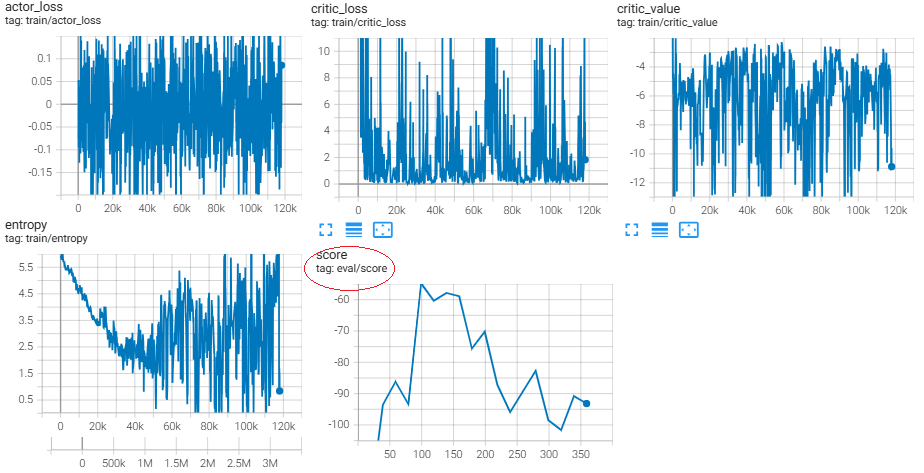
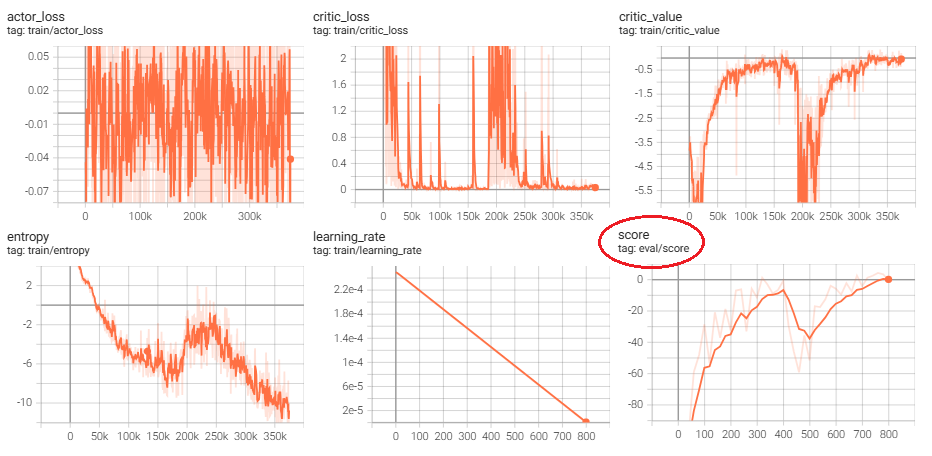
x

diff --git a/Demonstration Learning的综述.md b/Demonstration Learning的综述.md
@@ -1,0 +1,106 @@
+
+
+**A SURVEY OF DEMONSTRATION LEARNING**
+
+### 1、Introduction
+
+ 随着 AI 尤其是强化学习（RL）的发展，人们希望通过模仿人类行为训练智能系统。传统 RL 在现实中面临成本高、安全性差、需要大量交互的问题，这让从演示中学习（Demonstration Learning）成为一种更安全高效的替代方案。
+
+传统编程方式无法适应高维或连续动作空间。而通过示范学习，智能体可以自动学习状态-动作的映射（policy），从而规避了人工指定每种情况的繁琐过程。
+
+利用示范学习得到的动态模型（dynamics model）来“模拟”环境，从而生成新的状态转移序列（transitions），而不是真实地与环境交互。如果我们通过专家演示数据学到一个近似准确的环境模型，我们就可以在这个“模拟环境”中运行当前策略进行 rollout（策略执行），得到新的 transition 序列
+
+RL 虽然能达到超人水平，但需要大量与环境交互，安全性差、样本效率低，因此不适合现实世界中如机器人和医疗的任务。
+
+示范学习可利用专家数据跳过试错过程，安全高效地学习策略，并可结合其他方法进一步优化（如 RL、建模或 IRL），成为现实场景的可行方案。
+
+示范学习依赖于专家数据的覆盖度，不足的多样性会导致泛化困难，遇到分布外状态时性能急剧下降，因此如何处理分布偏移是关键难题。
+
+ 示范数据的收集也不易，可能存在噪声、不一致或设备误差，因此学习方法需具有一定泛化能力，而非“死记硬背”。
+
+ 这一领域自上世纪八十年代起就被视为机器人学习的重要方向，并已广泛应用于各种机器人任务中，研究热度因深度学习而持续上升。
+
+ 已有多个综述试图统一该领域的术语与分类方法，但术语仍较混乱，因此本综述统一采用“demonstration learning”这个术语。
+
+本文旨在从数据采集、学习方法、优化流程到评估基准全面综述该领域，并指出目前的挑战与未来研究方向。
+
+
+
+![image-20250628125818359](img\image-20250628125818359.png)
+
+### 2、Problem Definition
+
+讲了RL和MDP，这部分已经比较熟悉，不再赘述
+
+1. 行为克隆（Behavior Cloning）：将策略学习建模为监督学习问题，直接拟合专家在每个状态下的动作，适用于离散动作空间（分类）或连续动作空间（回归），但容易因分布外状态导致错误。
+2. 逆向强化学习（Inverse Reinforcement Learning, IRL）：从演示中推断奖励函数，使智能体在训练中朝着“专家行为”的方向学习，而无需手动设计复杂的奖励函数。
+3. 离线强化学习（Offline RL）：若演示中包含环境奖励，可以将其视作经验数据集，在不与环境交互的前提下，用 RL 方法训练出最大化累计奖励的策略，进而实现对演示策略的改进或泛化。
+4. 即使演示中包含次优行为，Offline RL 也能通过估计价值函数选择高质量部分，从而可能超越原始演示策略，但这要求能正确区分好坏行为，是个挑战。
+5. Offline RL 的目标是利用演示数据学习价值函数（state-value 或 action-value），再据此优化策略以最大化长期回报。
+6. 值函数估计可以支持策略学习时更好地权衡长期收益，比行为克隆能更好应对次优演示和泛化问题。
+7. 与监督学习不同，演示数据是时间序列并非独立同分布（non-i.i.d.），这加剧了“分布偏移”问题：策略一旦偏离演示分布，预测误差可能持续累积并放大。Offline RL 方法通常需通过不同机制约束策略偏离，降低泛化风险。
+
+| 方法                         | 主要目标                                       | 数据需求                      | 是否需要奖励信息 | 优势                                             | 劣势                                                         |
+| ---------------------------- | ---------------------------------------------- | ----------------------------- | ---------------- | ------------------------------------------------ | ------------------------------------------------------------ |
+| 行为克隆（Behavior Cloning） | 模仿专家动作，学习状态到动作的映射关系         | 状态-动作对（不一定覆盖全面） | 否               | 简单高效，易于实现；训练过程快                   | 容易受分布外状态影响，泛化能力弱；无法识别和避免差的演示行为 |
+| 逆向强化学习（IRL）          | 从专家行为推断奖励函数，再用 RL 优化策略       | 状态-动作序列                 | 否               | 可自动构建奖励函数，适用于无法手动设计奖励的任务 | 套路较复杂；可能产生多个解释（奖励不唯一）；效率不高         |
+| 离线强化学习（Offline RL）   | 直接在静态数据集上进行策略优化以最大化奖励期望 | 状态-动作-奖励-下一状态四元组 | 是               | 可超越专家；能识别次优示范并改进；处理长期回报   | 分布外泛化风险大；学习稳定性依赖策略约束与价值函数估计方法   |
+
+### 3、Demonstration Data Set
+
+#### 3.4 Direct Demonstration（直接示范）
+描述：示范由学习代理自身完成，不需要对状态或动作进行映射。
+
+- 3.4.1 Teleoperation（远程操控）  
+  人类通过控制器操纵学习代理完成任务，数据由代理内部传感器记录，直接可用。
+
+- 3.4.2 Kinesthetic Teaching（动作示教）  
+  教师通过身体接触引导机器人运动（如拉动机械臂关节），机器人用自身传感器记录演示。
+
+  想象一个人亲手“抓住”机器人的手臂，把它移动到正确的位置完成一个任务。这个过程中机器人自身的传感器记录了关节角度、运动轨迹等信息——这些就构成了演示数据。也可以通过语音告诉机器人“现在抬起右臂30度”来进行类似示教。
+
+- 3.4.3 Shadowing（影子模仿）  
+  代理通过视觉或追踪传感器实时模仿教师动作，动作由代理执行但需要将教师行为映射为自身控制指令。
+
+  这类似于“跟读”或者镜像模仿。比如一个机器人实时识别人类手势或步态，并让自己的身体同步模仿。这通常用于具有人形结构的机器人，例如双足行走或手臂动作训练。
+
+---
+
+#### 3.5 Indirect Demonstration（间接示范）
+描述：示范由外部实体完成，通常需要将示范结果映射到学习代理能理解的状态和动作空间。
+
+- 3.5.1 Observation（观察）  
+  代理通过摄像头等外部传感器观看人类执行任务，仅获得视觉信息，需进一步推理动作。
+
+- 3.5.2 Sensors on Teacher（教师佩戴传感器）  
+  在教师身上安装传感器收集精确的动作数据，但仍需将这些数据适配到机器人的执行格式。
+
+---
+
+#### 3.6 Data Representation（数据表示方式）
+描述：示范数据可以以不同形式进行存储和使用，影响后续学习质量。
+
+- 3.6.1 Raw Features（原始特征）  
+  直接使用传感器采集的数据，例如图像、位置信息、速度等，未经加工。
+
+- 3.6.2 Manually Designed Features（手工特征）  
+  专家根据任务经验手动提取关键特征，去除冗余，降低维度。
+
+- 3.6.3 Extracted Features（自动特征提取）  
+  使用神经网络等方法从原始输入中自动学习表示，适用于高维复杂输入如图像。
+
+- 3.6.4 Time as a Feature（以时间作为特征）  
+  假设任务的状态变化依赖于时间，每个时刻对应一个确定动作，省略了显式状态建模。
+
+  这种做法适用于那些环境变化基本不受外部扰动、节奏严格同步的任务，比如工业流水线或机器人舞蹈。你可以把它理解为“到了第3秒就一定要执行动作A”，策略只要根据当前时间决定动作即可。这种方式简化了状态感知，但对环境的时间一致性要求高，稍有延迟或干扰就会导致失效。
+
+---
+
+#### 3.7 Data Set Limitations（数据集的限制）
+描述：演示数据往往在覆盖度和质量上存在挑战，是示范学习的一大难题。
+
+- 3.7.1 Incomplete Data（数据覆盖不完整）  
+  示范无法涵盖所有可能状态，容易造成泛化失败或遇到分布外状态时出错。
+
+- 3.7.2 Inadequate Data（数据质量不足）  
+  示范可能包含噪声、错误、不一致或失败案例，容易误导策略学习，需进行筛选或修正。

diff --git a/AggreVaTeD.md b/AggreVaTeD.md
@@ -1196,7 +1196,22 @@ if __name__ == "__main__":
 
 ##### 手搓的PPO
 
-代码类似上面BipedalWalker任务的代码。运行下来不收敛：
+代码类似上面BipedalWalker任务的代码，稍作修改：
+
+1. lr会做线性衰减
+2. 每次rollout收集更多的时间步
+
+有学到一些东西，但最终没有收敛到较好的效果：
+
+```
+eval episode reward:-18.36461067199707, episode len:2000
+eval episode reward:1.397518515586853, episode len:2000
+eval episode reward:8.410011291503906, episode len:2000
+eval episode reward:6.883878707885742, episode len:2000
+eval episode reward:-1.9226666688919067, episode len:2000
+[Iter 799] Avg Return: -0.72
+```
+
 ![image-20250627131355705](img/image-20250627131355705.png)
 
 ```python
@@ -1219,7 +1234,7 @@ class Config:
     action_dim = 4
     hidden_dim = 256
 
-    min_rollout_steps = 5000
+    min_rollout_steps = 32768
     max_episode_length = 3000
     gamma = 0.99
     lam = 0.95  # GAE lambda
@@ -1227,7 +1242,7 @@ class Config:
 
     clip_ratio = 0.2
     entropy_coef = 0.001 #这个值很敏感，稍微大一点就不收敛了
-    lr = 3e-4
+    lr = 2.5e-4
     batch_size = 128
     max_iters = 800
 
@@ -1448,6 +1463,7 @@ class PPOAgent:
 if __name__ == "__main__":
     agent = PPOAgent()
     agent.train()
+
 ```
 
 ##### SB3的PPO
